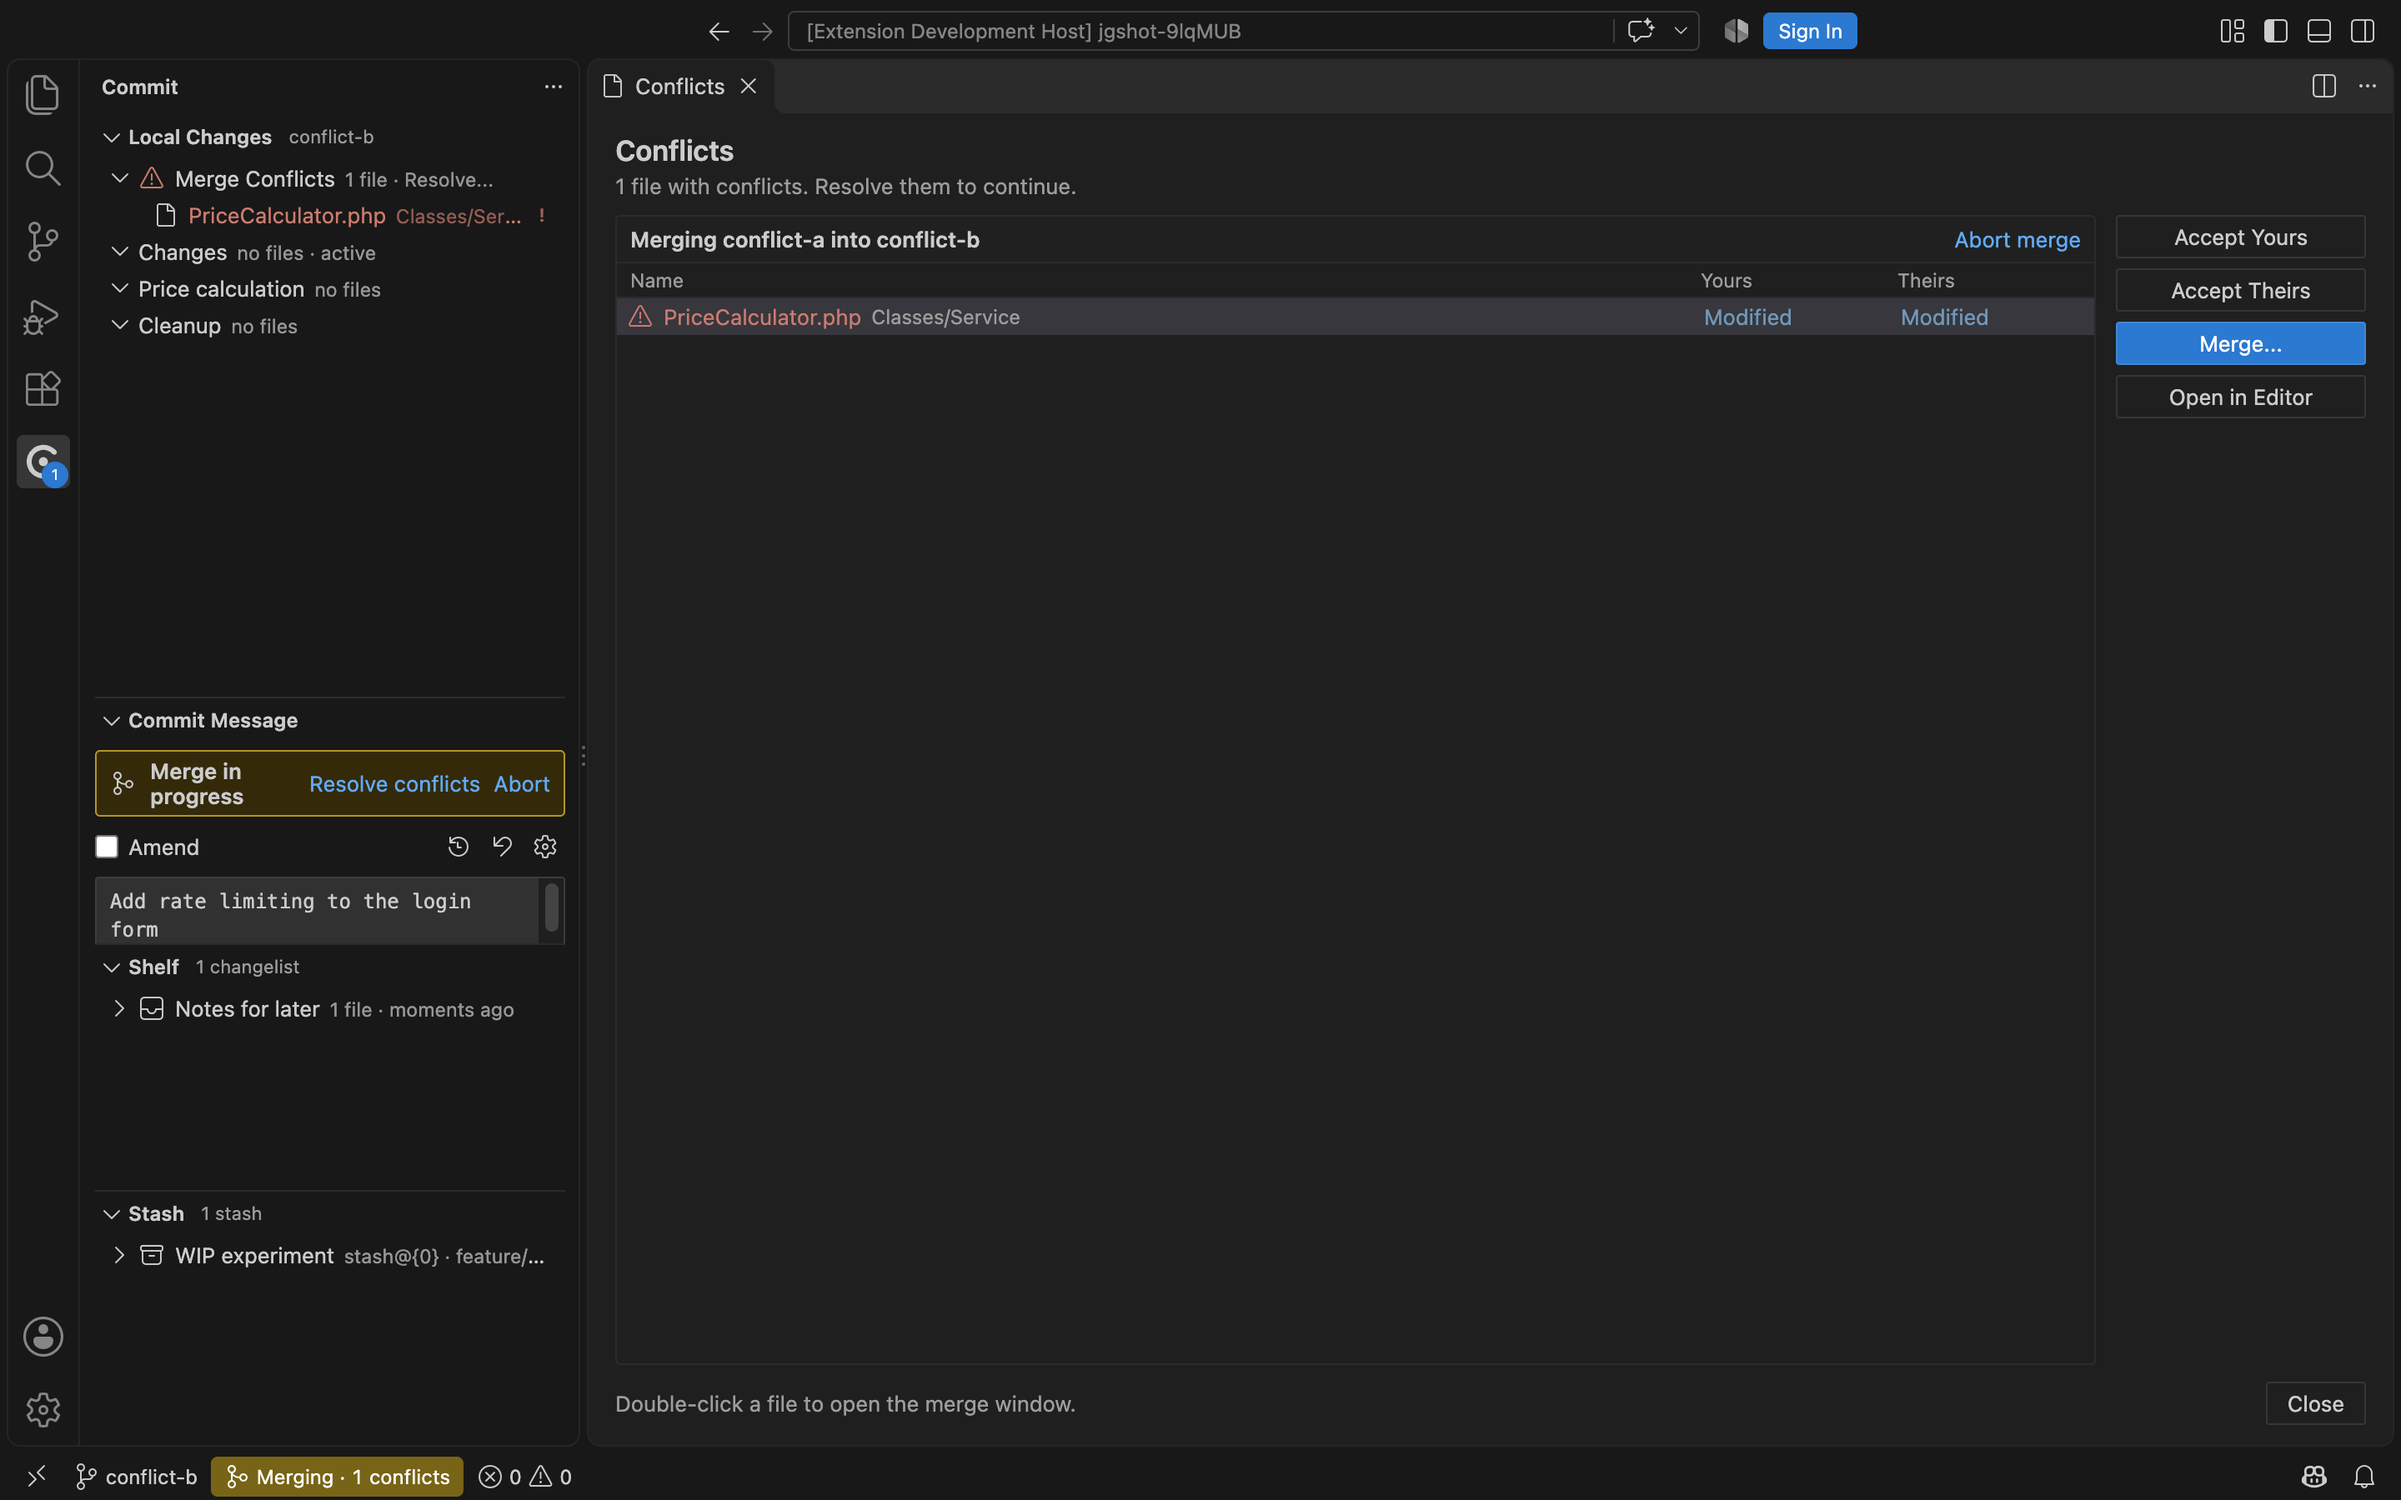
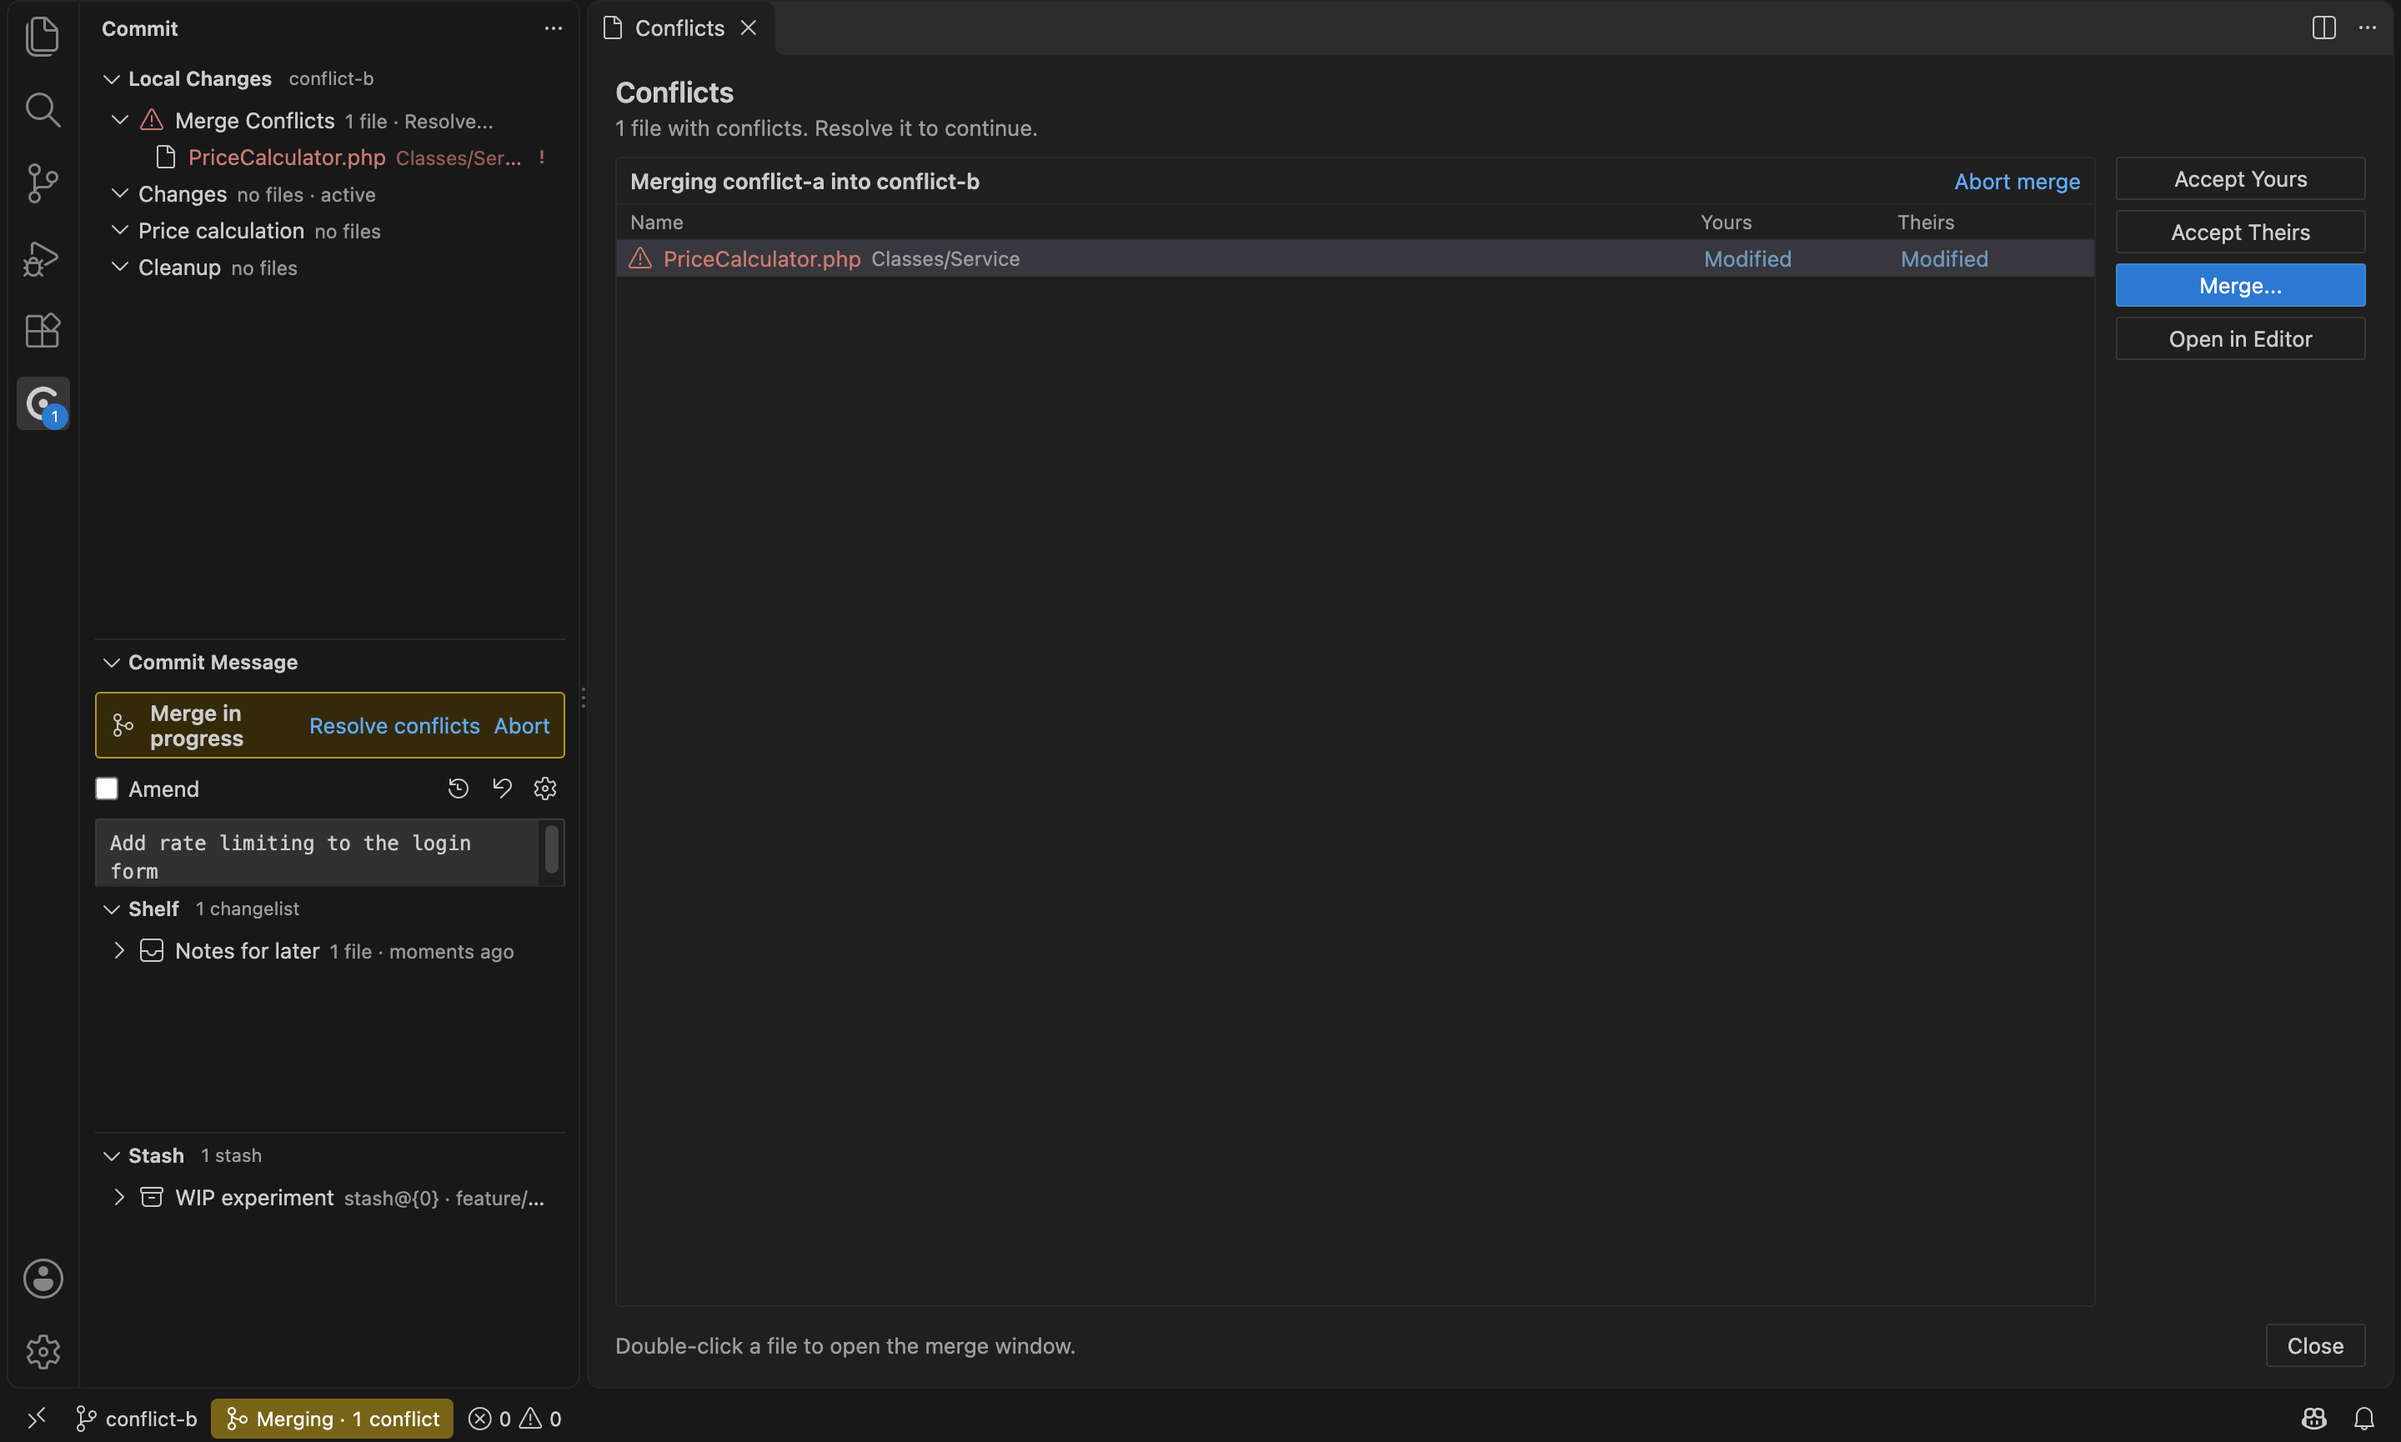
Embedded screenshots in README

diff --git a/src/test/e2e/shots.ts b/src/test/e2e/shots.ts
@@ -5,12 +5,19 @@ import * as vscode from 'vscode';
 import type { ChangelineApi } from '../../extension';
 import { chunkKey, diffLines, splitLines } from '../../shared/diff';
 import { EXTENSION_ID } from './harness';
+import { closeCdp, webview } from './webview';
 
 const out = process.env['CHANGELINE_SHOTS_DIR']!;
 const sleep = (ms: number) => new Promise((r) => setTimeout(r, ms));
 
-/** Captures the VS Code window through the Chrome DevTools Protocol. */
-async function shot(name: string): Promise<void> {
+interface ShotArea {
+	selector: string;
+	margin?: number;
+	maxHeight?: number;
+}
+
+/** Captures the VS Code window below the title bar, or only the given element, through the Chrome DevTools Protocol. */
+async function shot(name: string, area?: ShotArea): Promise<void> {
 	await vscode.commands.executeCommand('notifications.clearAll').then(undefined, () => undefined);
 	await sleep(200);
 	const targets = (await (await fetch('http://127.0.0.1:9333/json/list')).json()) as { type: string; url: string; webSocketDebuggerUrl: string }[];
@@ -20,18 +27,33 @@ async function shot(name: string): Promise<void> {
 	}
 	const WS = (globalThis as unknown as { WebSocket: typeof WebSocket }).WebSocket;
 	const ws = new WS(page.webSocketDebuggerUrl);
-	const data = await new Promise<string>((resolve, reject) => {
-		ws.onopen = () => ws.send(JSON.stringify({ id: 1, method: 'Page.captureScreenshot', params: { format: 'png' } }));
-		ws.onmessage = (e: MessageEvent) => {
-			const msg = JSON.parse(String(e.data));
-			if (msg.id === 1) {
-				ws.close();
-				msg.result ? resolve(msg.result.data) : reject(new Error(JSON.stringify(msg.error)));
-			}
-		};
+	const pending = new Map<number, (msg: { result?: any; error?: unknown }) => void>();
+	let nextId = 0;
+	ws.onmessage = (e: MessageEvent) => {
+		const msg = JSON.parse(String(e.data));
+		pending.get(msg.id)?.(msg);
+		pending.delete(msg.id);
+	};
+	await new Promise<void>((resolve, reject) => {
+		ws.onopen = () => resolve();
 		ws.onerror = () => reject(new Error('CDP connection failed'));
 	});
-	fs.writeFileSync(path.join(out, `${name}.png`), Buffer.from(data, 'base64'));
+	const send = (method: string, params: unknown) =>
+		new Promise<any>((resolve, reject) => {
+			const id = ++nextId;
+			pending.set(id, (msg) => (msg.result ? resolve(msg.result) : reject(new Error(JSON.stringify(msg.error)))));
+			ws.send(JSON.stringify({ id, method, params }));
+		});
+	const expression = area
+		? `(() => { const r = document.querySelector(${JSON.stringify(area.selector)}).getBoundingClientRect(); const m = ${area.margin ?? 0}; const x = Math.max(0, r.left - m); const y = Math.max(0, r.top - m); return { x, y, width: Math.min(innerWidth, r.right + m) - x, height: Math.min(innerHeight, r.bottom + m, y + ${area.maxHeight ?? 100000}) - y }; })()`
+		: `(() => { const top = document.querySelector('.part.titlebar')?.getBoundingClientRect().bottom ?? 0; return { x: 0, y: top, width: innerWidth, height: innerHeight - top }; })()`;
+	try {
+		const clip = (await send('Runtime.evaluate', { expression, returnByValue: true })).result.value;
+		const { data } = await send('Page.captureScreenshot', { format: 'png', clip: { ...clip, scale: 1 } });
+		fs.writeFileSync(path.join(out, `${name}.png`), Buffer.from(data, 'base64'));
+	} finally {
+		ws.close();
+	}
 	console.log(`  📸 ${name}.png`);
 }
 
@@ -92,11 +114,14 @@ export async function run(): Promise<void> {
 		await sleep(800);
 		await vscode.commands.executeCommand('workbench.action.toggleMaximizedPanel').then(undefined, () => undefined);
 		await sleep(2500);
-		await shot('03-git-log');
+		const logView = await webview('Log');
+		await logView.clickText('.commit-row .subject .text', 'Document rate limiting');
+		await sleep(1200);
+		await shot('03-git-log', { selector: '.part.panel', maxHeight: 400 });
 		const log = api._test.logView.current!;
 		void vscode.commands.executeCommand('changeline.log.editMessage', { logId: log.id, hash: repo.state.head });
 		await sleep(1500);
-		await shot('14-edit-commit-message');
+		await shot('14-edit-commit-message', { selector: '.part.panel', maxHeight: 520 });
 		log.dialogs.dispose();
 		await vscode.commands.executeCommand('workbench.action.toggleMaximizedPanel').then(undefined, () => undefined);
 		await vscode.commands.executeCommand('workbench.action.closePanel');
@@ -105,7 +130,7 @@ export async function run(): Promise<void> {
 	await step('branches popup', async () => {
 		void vscode.commands.executeCommand('changeline.branches');
 		await sleep(1500);
-		await shot('04-branches-popup');
+		await shot('04-branches-popup', { selector: '.quick-input-widget', margin: 8 });
 		await vscode.commands.executeCommand('workbench.action.closeQuickOpen');
 		await sleep(300);
 	});
@@ -113,7 +138,7 @@ export async function run(): Promise<void> {
 	await step('vcs operations', async () => {
 		void vscode.commands.executeCommand('changeline.vcsOperations');
 		await sleep(1200);
-		await shot('05-vcs-operations');
+		await shot('05-vcs-operations', { selector: '.quick-input-widget', margin: 8 });
 		await vscode.commands.executeCommand('workbench.action.closeQuickOpen');
 	});
 
@@ -239,4 +264,5 @@ export async function run(): Promise<void> {
 		await shot('13-merge-state-status-bar');
 		await repo.abortOperation();
 	});
+	closeCdp();
 }

diff --git a/src/test/e2e/runShots.ts b/src/test/e2e/runShots.ts
@@ -9,8 +9,11 @@ async function main() {
 	const root = path.resolve(__dirname, '../../..');
 	const out = process.argv[2] ?? path.join(root, 'screenshots');
 	fs.mkdirSync(out, { recursive: true });
-	const ws = fs.mkdtempSync(path.join(os.tmpdir(), 'jgshot-'));
-	const remote = fs.mkdtempSync(path.join(os.tmpdir(), 'jgremote-'));
+	const base = fs.mkdtempSync(path.join(os.tmpdir(), 'changeline-shots-'));
+	const ws = path.join(base, 'site-package');
+	const remote = path.join(base, 'remote.git');
+	fs.mkdirSync(ws);
+	fs.mkdirSync(remote);
 	const git = (cwd: string, ...args: string[]) => cp.execFileSync('git', ['-c', 'user.name=Marlon Lange', '-c', 'user.email=marlon@example.com', ...args], { cwd, stdio: 'pipe' });
 	git(remote, 'init', '-q', '--bare', '-b', 'main');
 	git(ws, 'init', '-q', '-b', 'main');
@@ -57,7 +60,7 @@ async function main() {
 	fs.rmSync(path.join(ws, 'composer.json'));
 	write('notes.txt', 'todo\n');
 	git(ws, 'add', 'Tests/Unit/RateLimiterTest.php');
-	const userData = fs.mkdtempSync(path.join(os.tmpdir(), 'jgud-'));
+	const userData = path.join(base, 'user-data');
 	fs.mkdirSync(path.join(userData, 'User'), { recursive: true });
 	fs.writeFileSync(path.join(userData, 'User', 'settings.json'), JSON.stringify({
 		'workbench.colorTheme': 'Default Dark Modern',
@@ -72,12 +75,10 @@ async function main() {
 			extensionDevelopmentPath: root,
 			extensionTestsPath: path.join(__dirname, 'shots.js'),
 			launchArgs: [ws, `--user-data-dir=${userData}`, '--disable-extensions', '--disable-workspace-trust', '--skip-welcome', '--skip-release-notes', '--remote-debugging-port=9333'],
-			extensionTestsEnv: { CHANGELINE_SHOTS_DIR: out, CHANGELINE_E2E_WORKSPACE: ws },
+			extensionTestsEnv: { CHANGELINE_SHOTS_DIR: out, CHANGELINE_E2E_WORKSPACE: ws, CHANGELINE_CDP_PORT: '9333' },
 		});
 	} finally {
-		fs.rmSync(ws, { recursive: true, force: true });
-		fs.rmSync(remote, { recursive: true, force: true });
-		fs.rmSync(userData, { recursive: true, force: true });
+		fs.rmSync(base, { recursive: true, force: true });
 	}
 }
 

diff --git a/README.md b/README.md
@@ -4,6 +4,30 @@ Changeline brings the Git workflow known from JetBrains IDEs (PhpStorm, IntelliJ
 
 It talks to the `git` executable directly and works next to (or instead of) VS Code's built-in Git support.
 
+![Commit tool window with changelists next to the diff viewer with a checkbox per change for partial commits](docs/screenshots/02-diff-viewer.png)
+
+## Screenshots
+
+### Git log
+
+![Git log with branches pane, commit graph, branch and tag labels and the changed files of the selected commit](docs/screenshots/03-git-log.png)
+
+### Branches popup
+
+![Branches popup with actions, recent, local and remote branches and tags](docs/screenshots/04-branches-popup.png)
+
+### Three-way merge
+
+![Three-way merge window with your version, the result and the incoming changes](docs/screenshots/12-merge-window.png)
+
+### Interactive rebase
+
+![Interactive rebase dialog with pick, edit, reword, squash, fixup and drop](docs/screenshots/09-interactive-rebase.png)
+
+### Push dialog
+
+![Push dialog with the commits to push, the target branch and the changed files](docs/screenshots/08-push-dialog.png)
+
 ## Where to find what
 
 | JetBrains | Changeline |
